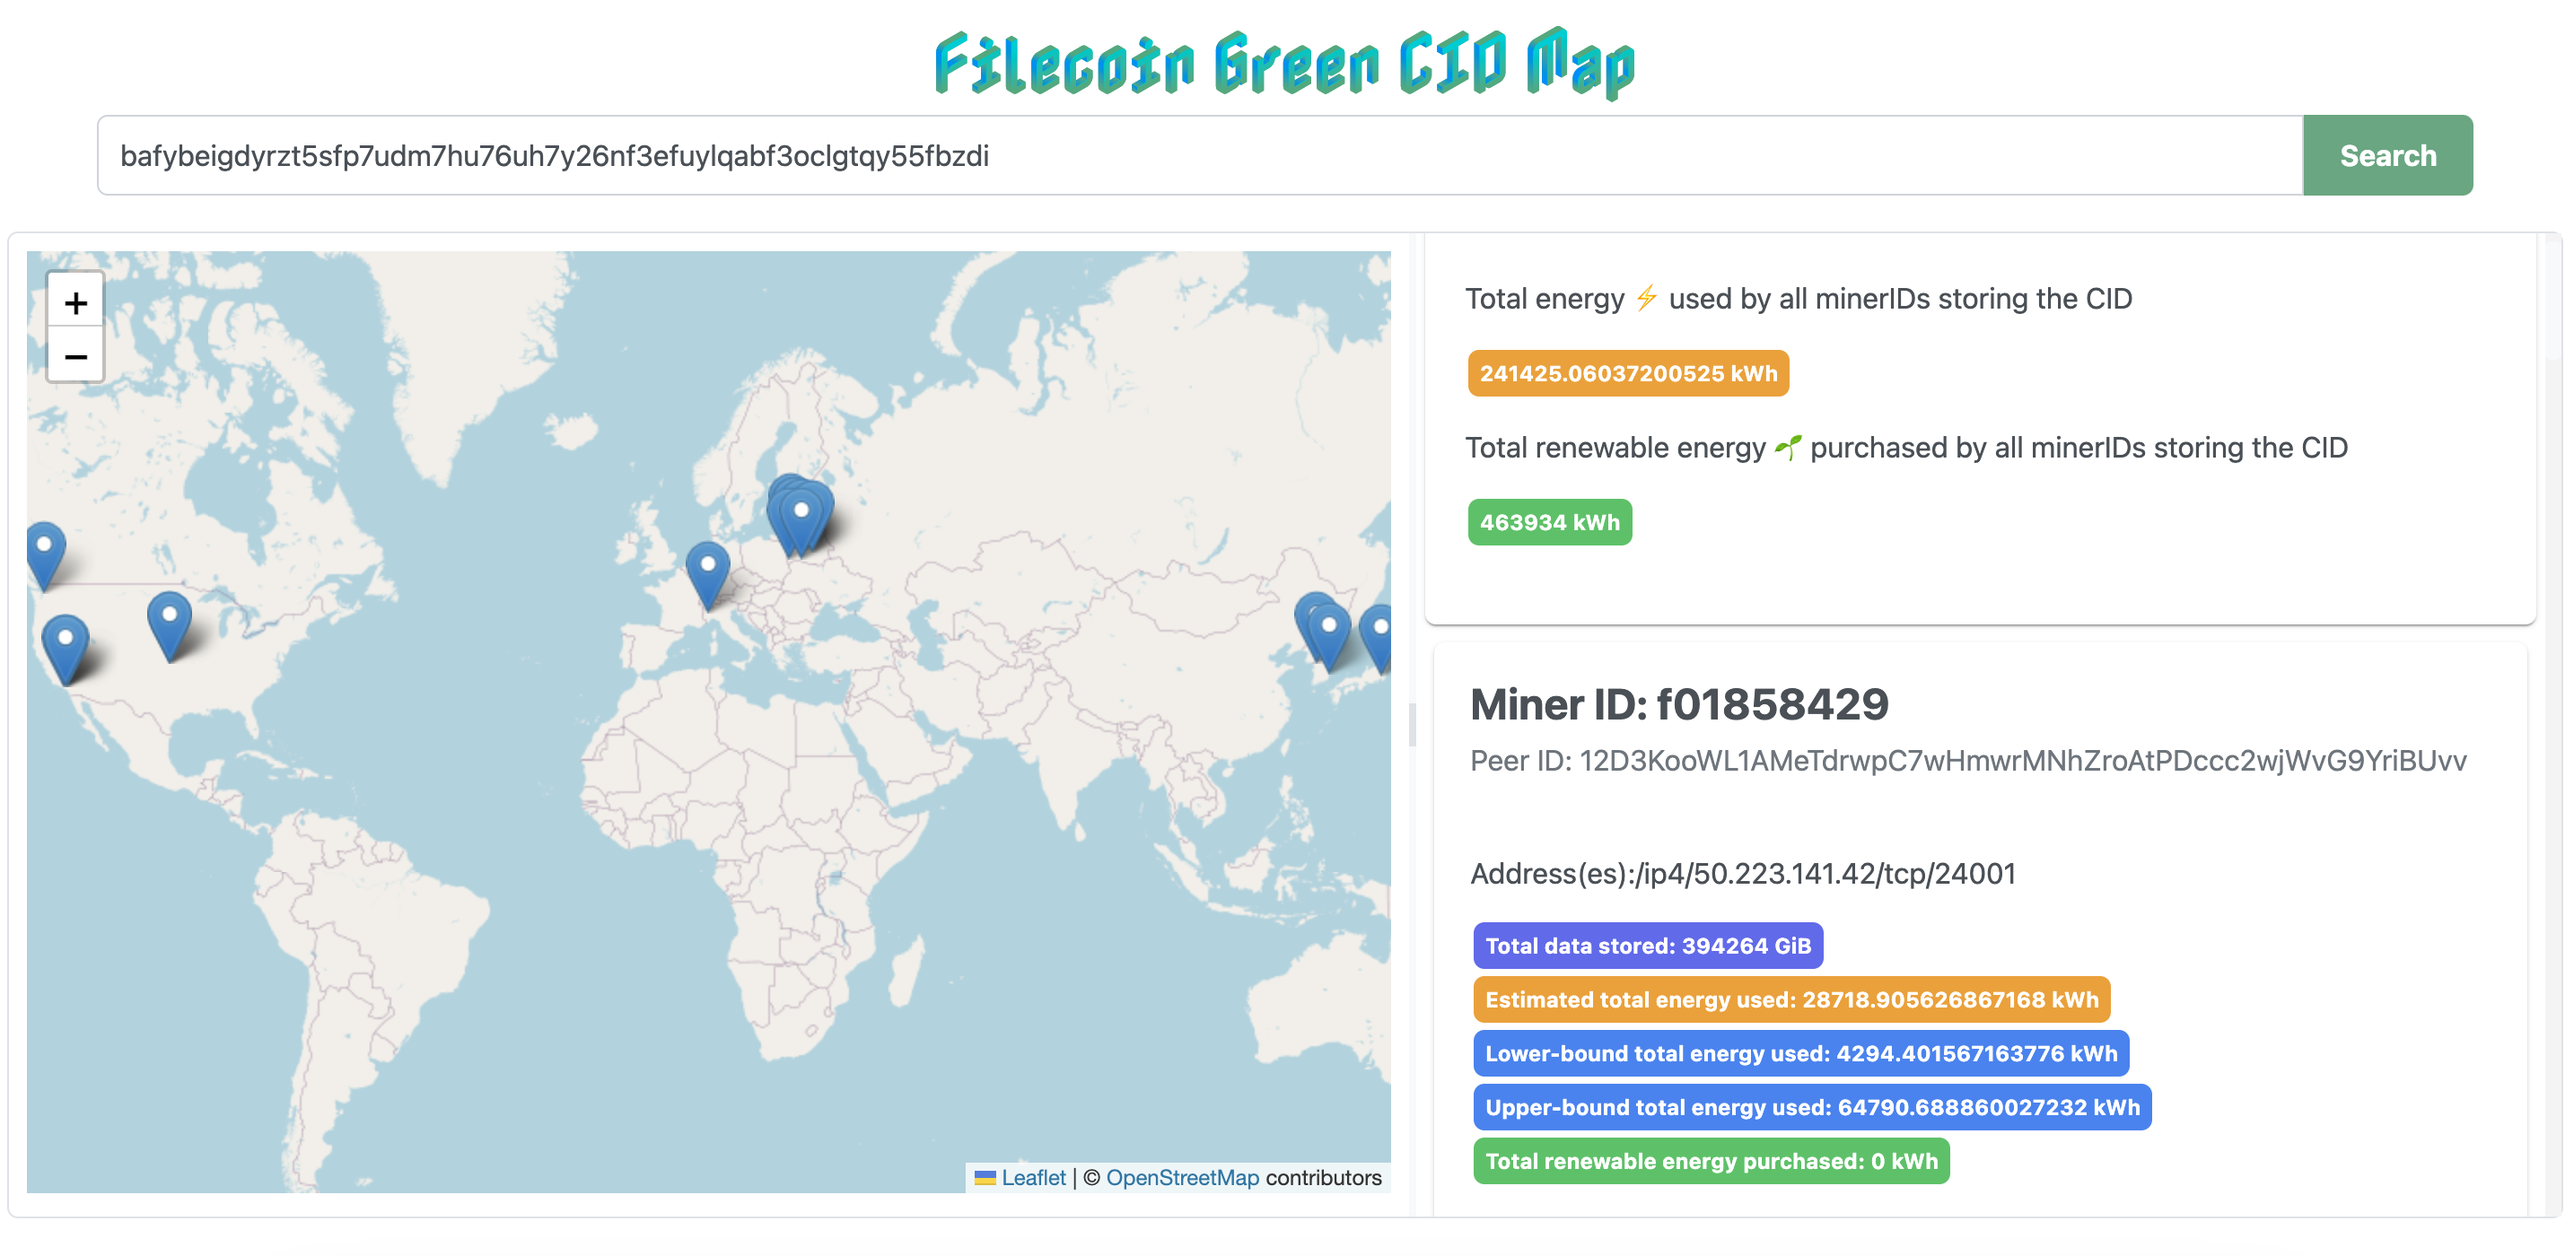
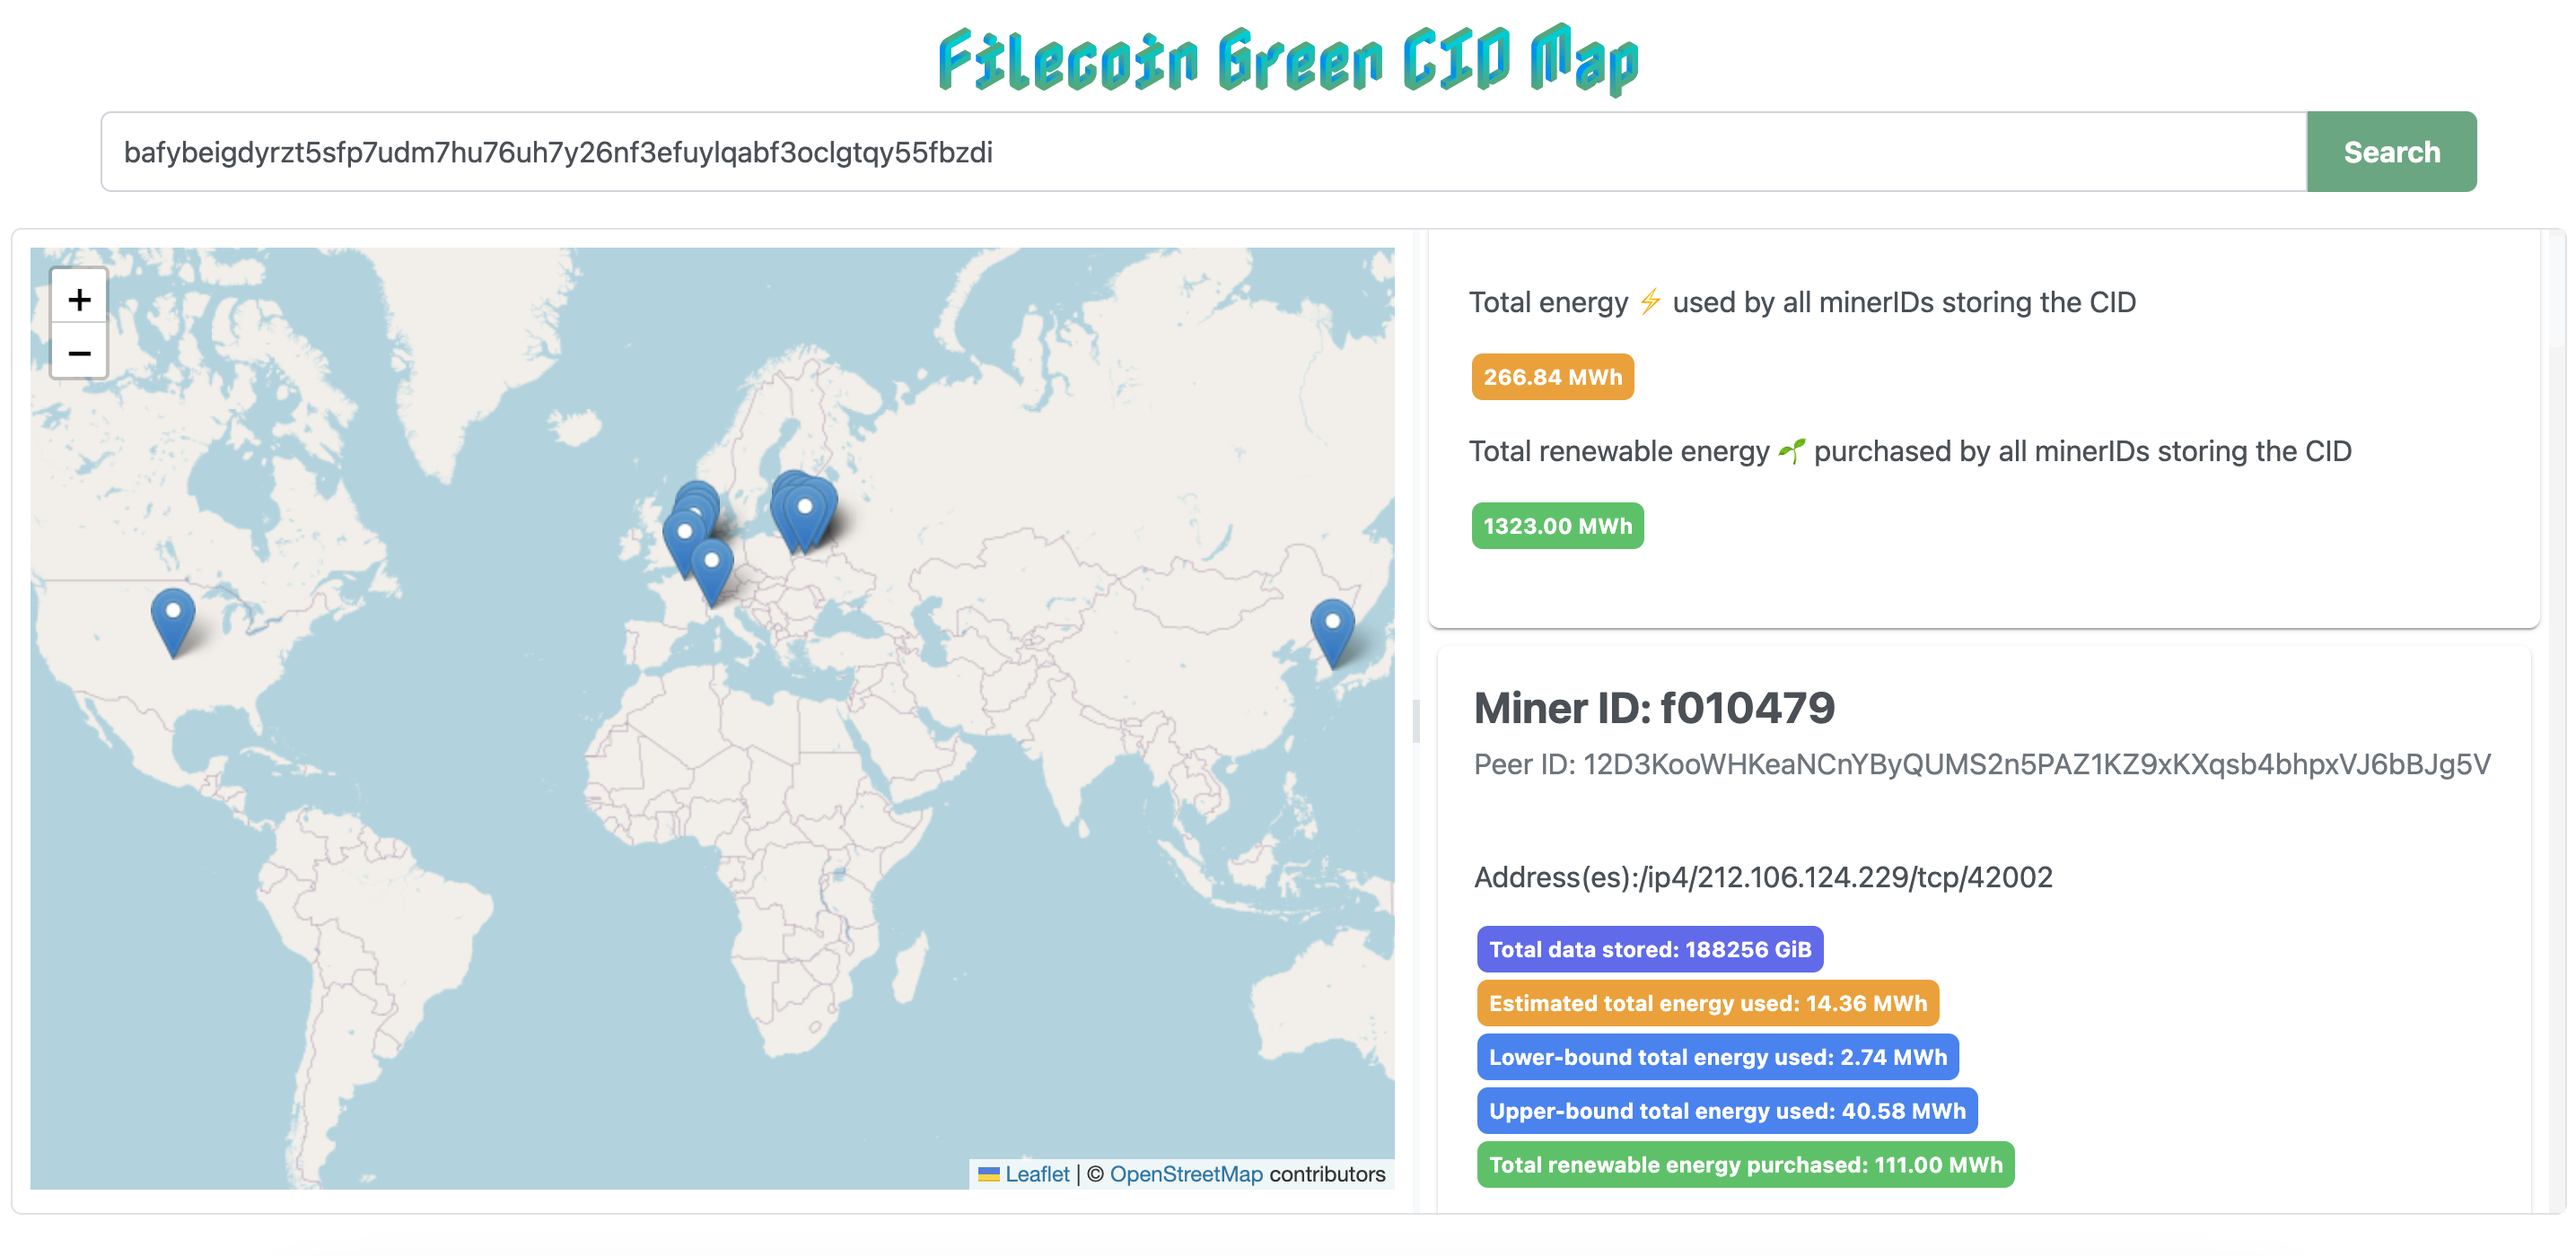
updates-responsive, energy in MWh rounded to 2 decimals, search activated by pressing enter

diff --git a/src/App.js b/src/App.js
@@ -30,6 +30,12 @@ const corner1 = L.latLng(-90, -200)
 const corner2 = L.latLng(90, 200)
 const bounds = L.latLngBounds(corner1, corner2)
 
+const useFocus = () => {
+  const htmlElRef = useRef(null)
+  const setFocus = () => {htmlElRef.current &&  htmlElRef.current.focus()}
+
+  return [ htmlElRef, setFocus ] 
+}
 
 const App = () => {
   const { cid } = useParams();
@@ -45,10 +51,38 @@ const App = () => {
   const [totalEnergy, setTotalEnergy] = useState(0);
   const [totalRenewableEnergy, setTotalRenewableEnergy] = useState(0);
 
+  const [width, setWidth] = React.useState(window.innerWidth);
+  const breakpoint = 700;
+  const [inputRef, setInputFocus] = useFocus()
+
+
   useEffect(()=>{
     console.log("searching cid: ", cid);
     setSearchCID(cid);
     fetchProviders()
+
+    const handleResizeWindow = () => setWidth(window.innerWidth);
+    // subscribe to window resize event "onComponentDidMount"
+    window.addEventListener("resize", handleResizeWindow);
+
+    const keyDownHandler = event => {
+      console.log('User pressed: ', event.key);
+
+      if (event.key === 'Enter') {
+        event.preventDefault();
+
+        enterPressed();
+      }
+    };
+
+    document.addEventListener('keydown', keyDownHandler);
+
+    return () => {
+      // unsubscribe "onComponentDestroy"
+      window.removeEventListener("resize", handleResizeWindow);
+      document.removeEventListener('keydown', keyDownHandler);
+
+    };
   }, [cid]);
 
   const fetchProviders = () => {
@@ -170,6 +204,10 @@ const App = () => {
     toast.current.show({severity:'error', summary: 'Error!', detail: `Could not retrieve Peers for CID (This probably means your CID is on IPFS but not on Filecoin)`, life: 3000});
   }
 
+  const displayEnergyNumber = (text) => {
+    return (parseFloat(text)*0.001).toFixed(2); // kWh to MWh
+  }
+
   const generateMinerLocationMarkers = () => {
     let components = [];
     minerIds.forEach(mid => {
@@ -202,7 +240,7 @@ const App = () => {
         title = `Miner ID: ${minerId}`
 
         return(
-          <Card title={title} subTitle={`Peer ID: ${provider.ID}`} style={{margin: "10px"}} key={index}>
+          <Card title={title} subTitle={`Peer ID: ${provider.ID}`} style={{margin: "10px"}} key={index} className='custom-subtitle'>
             <div style={{wordBreak: "break-all"}}>
               <p> Address(es): 
                 {provider.Addrs.reduce((accumulator, currentProvider, currentIndex) => {
@@ -215,20 +253,20 @@ const App = () => {
               </p>
               <Tag value={"Total data stored: " + minerIdToEnergy[minerId]["total_data"]} severity="primary" style={{margin: "2px"}}></Tag>
               <br></br>
-              <Tag value={"Estimated total energy used: " + minerIdToEnergy[minerId]["estimate_energy"]} severity="warning" style={{margin: "2px"}}></Tag>
+              <Tag value={"Estimated total energy used: " + displayEnergyNumber(minerIdToEnergy[minerId]["estimate_energy"]) + " MWh"} severity="warning" style={{margin: "2px"}}></Tag>
               <br></br>
-              <Tag value={"Lower-bound total energy used: " + minerIdToEnergy[minerId]["lower_bound_energy"]} severity="info" style={{margin: "2px"}}></Tag>
+              <Tag value={"Lower-bound total energy used: " + displayEnergyNumber(minerIdToEnergy[minerId]["lower_bound_energy"]) + " MWh"} severity="info" style={{margin: "2px"}}></Tag>
               <br></br>
-              <Tag value={"Upper-bound total energy used: " + minerIdToEnergy[minerId]["upper_bound_energy"]} severity="info" style={{margin: "2px"}}></Tag>
+              <Tag value={"Upper-bound total energy used: " + displayEnergyNumber(minerIdToEnergy[minerId]["upper_bound_energy"]) + " MWh"} severity="info" style={{margin: "2px"}}></Tag>
               <br></br>
-              <Tag value={"Total renewable energy purchased: " + minerIdToEnergy[minerId]["renewable_energy"]} severity="success" style={{margin: "2px"}}></Tag>
+              <Tag value={"Total renewable energy purchased: " + displayEnergyNumber(minerIdToEnergy[minerId]["renewable_energy"]) + " MWh"} severity="success" style={{margin: "2px"}}></Tag>
             </div>
           </Card>
         )
       }
       else{
         return(
-          <Card title={title} subTitle={`Peer ID: ${provider.ID}`} style={{margin: "10px"}} key={index}>
+          <Card title={title} subTitle={`Peer ID: ${provider.ID}`} style={{margin: "10px"}} key={index} className='custom-subtitle'>
             <div style={{wordBreak: "break-all"}}>
               <p> Address(es): 
                 {provider.Addrs.reduce((accumulator, currentProvider, currentIndex) => {
@@ -247,24 +285,28 @@ const App = () => {
     })
   }
 
+  const enterPressed = () => {
+    console.log('pressed Enter ✅');
+    setInputFocus()
+  };
+
   return (
     <div>
-      <h2 className="special-font">Filecoin Green CID Map</h2>
+      <h2 className={width > breakpoint ? "special-font" : "special-font-mobile"}>Filecoin Green CID Map</h2>
       <div className="grid p-fluid" style={{marginLeft: 50, marginRight: 50}}>
           <div className="col-12 md:col-4">
               <div className="p-inputgroup">
-                  <InputText placeholder="CID" value={searchCID} onChange={(e) => setSearchCID(e.target.value)}/>
+                  <InputText placeholder="CID" value={searchCID} onChange={(e) => setSearchCID(e.target.value)} ref={inputRef}/>
                   <Button style={{backgroundColor: "#54A97E", border: "0px"}} label="Search" onClick={handleClickSearch}/>
               </div>
           </div>
       </div>
       
- 
-
-      <Splitter style={{height: '550px', marginTop: "20px"}} layout="horizontal">
+      
+      <Splitter style={{height: '550px', marginTop: "20px"}} layout={width > breakpoint ? "horizontal" : "vertical"}>
         <SplitterPanel size={55} minSize={30}>
           <div style={{margin: 10}}>
-            <MapContainer style={{height: "525px"}} center={[28, 8]} zoom={2} scrollWheelZoom={true} 
+            <MapContainer style={{height: width > breakpoint ? "525px" : "400px"}} center={[28, 8]} zoom={2} scrollWheelZoom={true} 
                           maxBoundsViscosity={1.0} maxBounds={bounds}>
               <TileLayer
                 attribution='&copy; <a href="https://www.openstreetmap.org/copyright">OpenStreetMap</a> contributors'
@@ -281,9 +323,9 @@ const App = () => {
             <Card style={{margin: "5px", padding: "2px"}} >
               <div>
                   <p>Total energy ⚡ used by all minerIDs storing the CID</p>
-                  <Tag value={totalEnergy + " kWh"} severity="warning" style={{margin: "2px"}}></Tag>
+                  <Tag value={displayEnergyNumber(totalEnergy) + " MWh"} severity="warning" style={{margin: "2px"}}></Tag>
                   <p>Total renewable energy 🌱 purchased by all minerIDs storing the CID</p>
-                  <Tag value={totalRenewableEnergy + " kWh"} severity="success" style={{margin: "2px"}}></Tag>
+                  <Tag value={displayEnergyNumber(totalRenewableEnergy) + " MWh"} severity="success" style={{margin: "2px"}}></Tag>
               </div>
             </Card>
             {

diff --git a/src/styles/index.css b/src/styles/index.css
@@ -28,3 +28,11 @@
     margin: 0;
 }
 
+.special-font-mobile {    
+    font-family: 'Nabla', cursive;
+    font-palette: --nabla;
+    font-size: 28px;
+    text-align: center;
+    margin: 0;
+}
+

diff --git a/src/styles/app.css b/src/styles/app.css
@@ -11,3 +11,7 @@
 .custom-handle .p-scrollpanel-bar:hover {
     background-color: #54A97E;
 }
+
+.custom-subtitle .p-card-subtitle {
+    word-break: break-all;
+}
